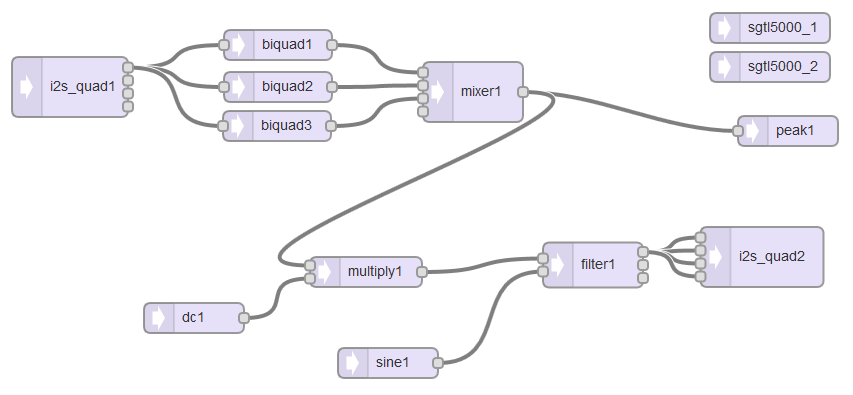
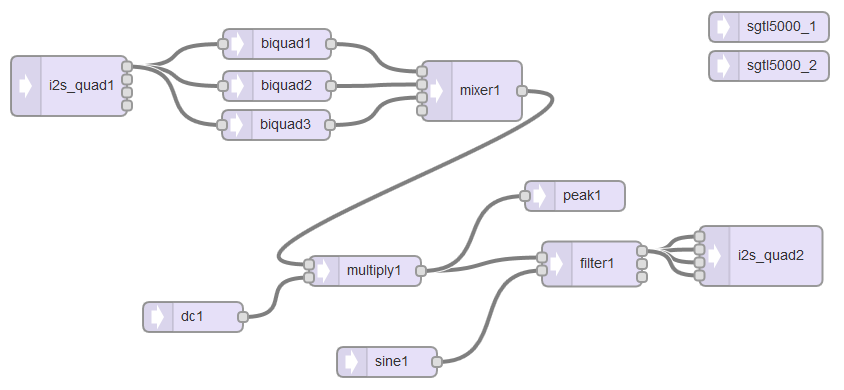
Added volume controlled LFO filter with default flat settings

diff --git a/Proto8Projects/Proto8AutoRoller/P8Interface.cpp b/Proto8Projects/Proto8AutoRoller/P8Interface.cpp
@@ -25,12 +25,18 @@
 #include <SD.h>
 #include <SerialFlash.h>
 
-extern AudioInputI2SQuad        i2s_quad1;      //xy=114,128
-extern AudioFilterBiquad        biquad2;        //xy=304,108
-extern AudioFilterBiquad        biquad1;        //xy=367,70
-extern AudioFilterBiquad        biquad3;        //xy=379,152
-extern AudioMixer4              mixer1;         //xy=600,111
-extern AudioOutputI2SQuad       i2s_quad2;      //xy=705,299
+// GUItool: begin automatically generated code
+extern AudioInputI2SQuad        i2s_quad1;      //xy=98,99
+extern AudioSynthWaveformDc     dc1;            //xy=222,330
+extern AudioFilterBiquad        biquad3;        //xy=305,138
+extern AudioFilterBiquad        biquad1;        //xy=306,57
+extern AudioFilterBiquad        biquad2;        //xy=306,99
+extern AudioEffectMultiply      multiply1;      //xy=394,284
+extern AudioSynthWaveformSine   sine1;          //xy=416,375
+extern AudioMixer4              mixer1;         //xy=501,104
+extern AudioFilterStateVariable filter1;        //xy=621,277
+extern AudioOutputI2SQuad       i2s_quad2;      //xy=790,269
+extern AudioAnalyzePeak         peak1;          //xy=816,143
 extern AudioControlSGTL5000     sgtl5000_1;     //xy=441,306
 extern AudioControlSGTL5000     sgtl5000_2;     //xy=441,345
 
@@ -240,11 +246,32 @@ void P8Interface::processMachine( void )
 			case 7:
 			mixer1.gain(2, (float)p8Param[activeParam] / 256);
 			break;
+			case 8:
+			filter1.frequency(20 + 7000 * (float)p8Param[activeParam] / 256);
+			break;
+			case 9:
+			filter1.resonance(5 * (float)p8Param[activeParam] / 256);
+			break;
+			case 10:
+			sine1.amplitude((float)p8Param[activeParam] / 256);
+			break;
+			case 11:
+			modFreqVar = ((float)p8Param[activeParam] / 256);
+			break;
+			case 12:
+			modFreqDepth = ((float)p8Param[activeParam] / 256);
+			break;
+			case 13:
+			dc1.amplitude((float)p8Param[activeParam] / 256);
+			break;
 			default:
 			break;
 			
 		}
 	}
+	
+	//update freq
+	sine1.frequency(0 + 100 * peak1.read() * modFreqDepth);
 	
 	LEDs.setNumber1( fixtureKnob.getState() );
 	float tempVoltage = 0;

diff --git a/Proto8Projects/Proto8AutoRoller/P8Interface.h b/Proto8Projects/Proto8AutoRoller/P8Interface.h
@@ -47,12 +47,15 @@ public:
 	
 	//Template Parameters
 	//  Set initial values here
-	uint8_t p8Param[15] = {190,4,210,240,73,50,45,255,0,0,0,0,0,0,0}; //Save 16 for idle
+	uint8_t p8Param[15] = {190,4,210,240,73,50,45,255,255,0,0,0,0,255,0}; //Save 16 for idle
 	//  p8ParamSync used for knob resyncing
 	uint8_t p8ParamSync = 0;
 	//  Choose how many params for the project
-	uint8_t p8ParamActive[15] = {1,1,1,1,1,1,1,1,0,0,0,0,0,0,0};
+	uint8_t p8ParamActive[15] = {1,1,1,1,1,1,1,1,1,1,1,1,1,1,0};
 	uint8_t activeParam = 0;
+	
+	float modFreqVar = 0;
+	float modFreqDepth = 0;
 	
 	
 private:
